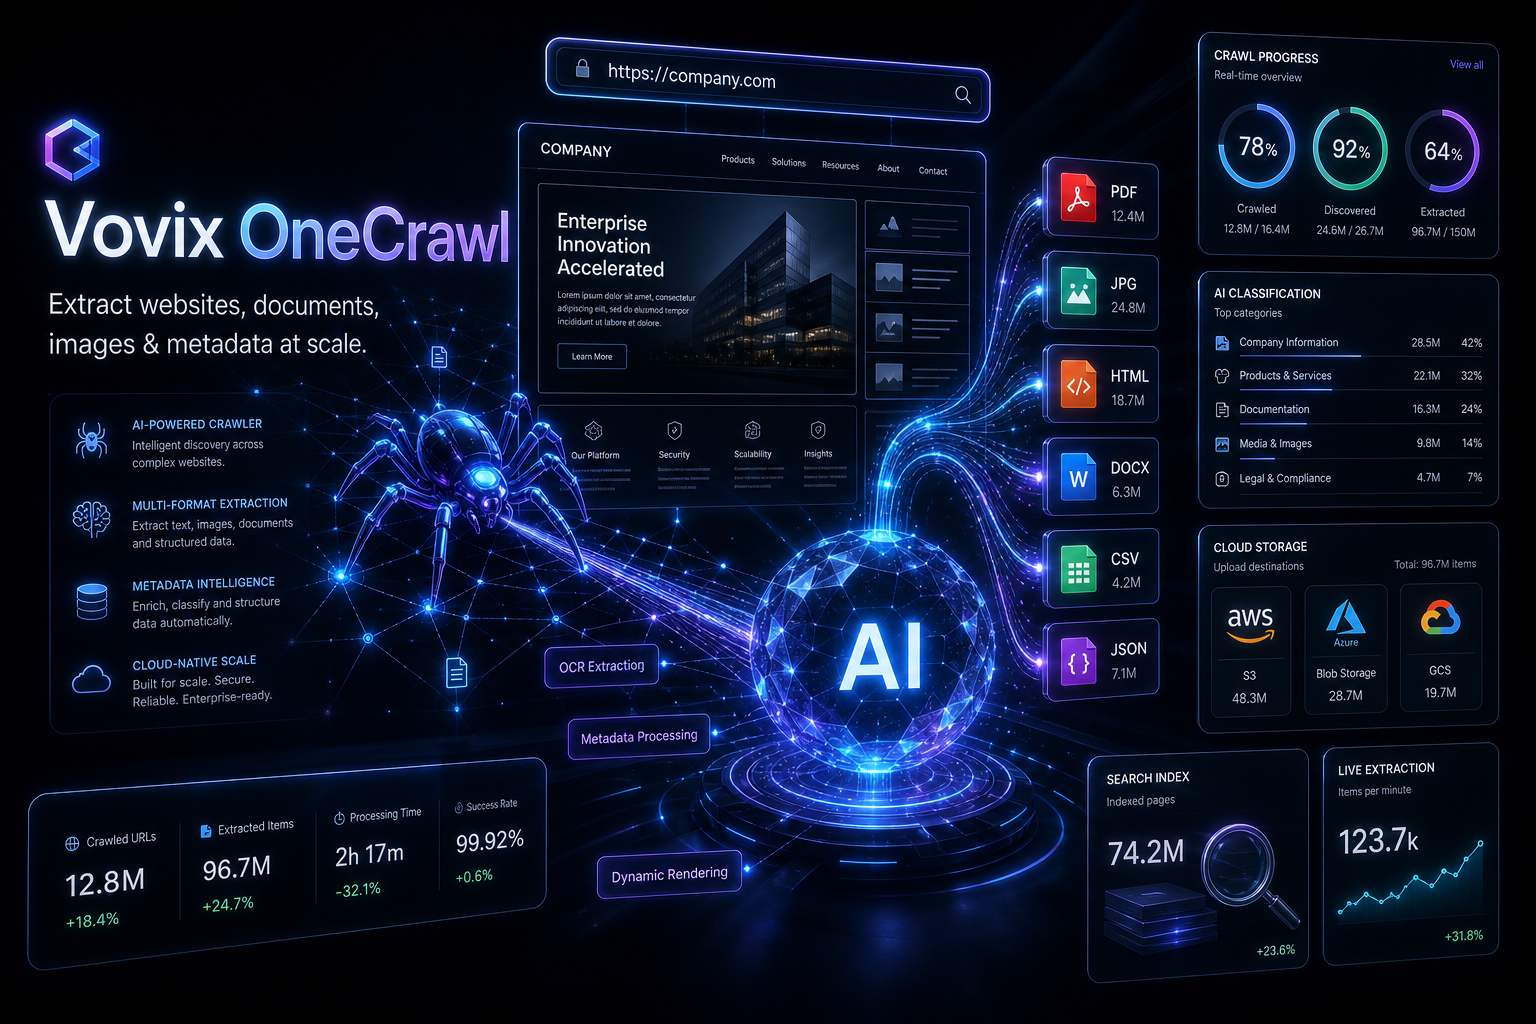
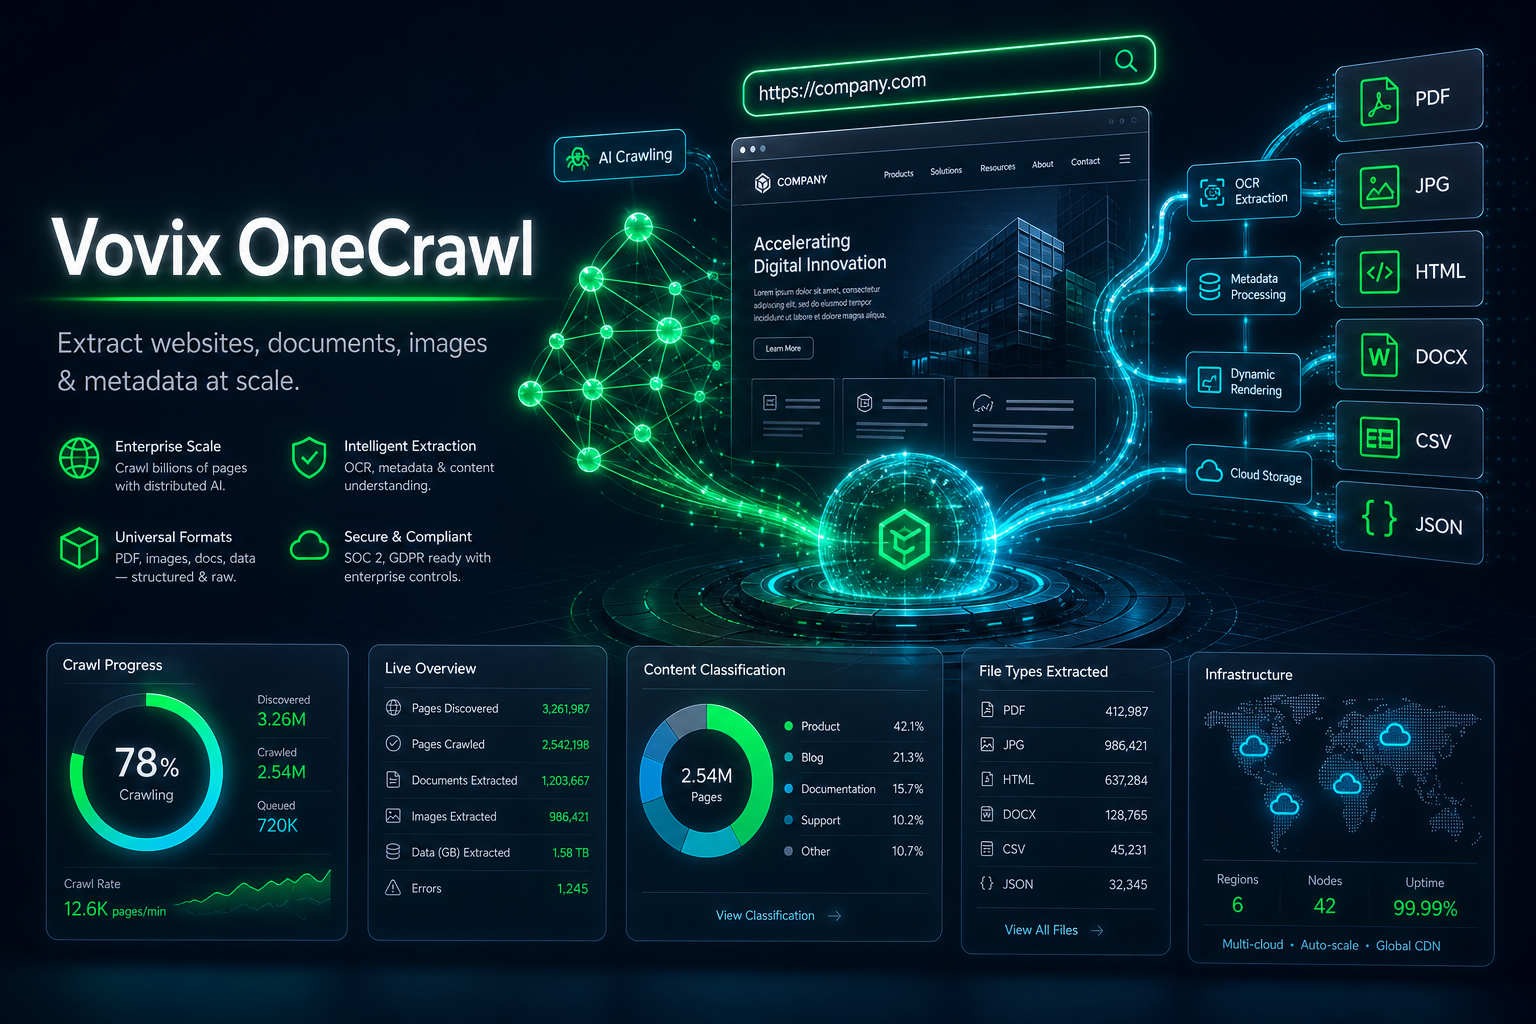
fix(assets): OneCrawl hero in Vovix brand colors (navy, emerald, cyan)
- Regenerate hero using palette from site.css: #102a43, #00c853, #00e5ff
- Cache-bust asset and site.css (20260511b)

diff --git a/products.html b/products.html
@@ -24,7 +24,7 @@
     />
     <link href="/css/bootstrap.min.css" rel="stylesheet" />
     <link href="https://unpkg.com/boxicons@2.1.4/css/boxicons.min.css" rel="stylesheet" />
-    <link href="/css/site.css?v=20260511" rel="stylesheet" />
+    <link href="/css/site.css?v=20260511b" rel="stylesheet" />
     <script src="/js/site.js" defer></script>
   </head>
   <body class="bg-white">
@@ -120,7 +120,7 @@
             <div class="col-lg-6">
               <img
                 class="img-fluid showcase-image"
-                src="/assets/onecrawl-products-hero.png?v=20260511"
+                src="/assets/onecrawl-products-hero.png?v=20260511b"
                 alt="Vovix OneCrawl — AI web crawler dashboard with URL input, extraction streams, and file format outputs"
                 width="1536"
                 height="1024"

diff --git a/about.html b/about.html
@@ -24,7 +24,7 @@
     />
     <link href="/css/bootstrap.min.css" rel="stylesheet" />
     <link href="https://unpkg.com/boxicons@2.1.4/css/boxicons.min.css" rel="stylesheet" />
-    <link href="/css/site.css?v=20260511" rel="stylesheet" />
+    <link href="/css/site.css?v=20260511b" rel="stylesheet" />
     <script src="/js/site.js" defer></script>
     <script type="application/ld+json">
       {

diff --git a/contact.html b/contact.html
@@ -24,7 +24,7 @@
     />
     <link href="/css/bootstrap.min.css" rel="stylesheet" />
     <link href="https://unpkg.com/boxicons@2.1.4/css/boxicons.min.css" rel="stylesheet" />
-    <link href="/css/site.css?v=20260511" rel="stylesheet" />
+    <link href="/css/site.css?v=20260511b" rel="stylesheet" />
     <script src="/js/site.js?v=20260426b" defer></script>
   </head>
   <body class="bg-white">

diff --git a/index.html b/index.html
@@ -38,7 +38,7 @@
     />
     <link href="/css/bootstrap.min.css" rel="stylesheet" />
     <link href="https://unpkg.com/boxicons@2.1.4/css/boxicons.min.css" rel="stylesheet" />
-    <link href="/css/site.css?v=20260511" rel="stylesheet" />
+    <link href="/css/site.css?v=20260511b" rel="stylesheet" />
     <script src="/js/site.js" defer></script>
     <script type="application/ld+json">
       {

diff --git a/legal/privacy.html b/legal/privacy.html
@@ -14,7 +14,7 @@
     />
     <link href="/css/bootstrap.min.css" rel="stylesheet" />
     <link href="https://unpkg.com/boxicons@2.1.4/css/boxicons.min.css" rel="stylesheet" />
-    <link href="/css/site.css?v=20260511" rel="stylesheet" />
+    <link href="/css/site.css?v=20260511b" rel="stylesheet" />
   </head>
   <body class="bg-white">
     <nav

diff --git a/legal/terms.html b/legal/terms.html
@@ -14,7 +14,7 @@
     />
     <link href="/css/bootstrap.min.css" rel="stylesheet" />
     <link href="https://unpkg.com/boxicons@2.1.4/css/boxicons.min.css" rel="stylesheet" />
-    <link href="/css/site.css?v=20260511" rel="stylesheet" />
+    <link href="/css/site.css?v=20260511b" rel="stylesheet" />
   </head>
   <body class="bg-white">
     <nav
